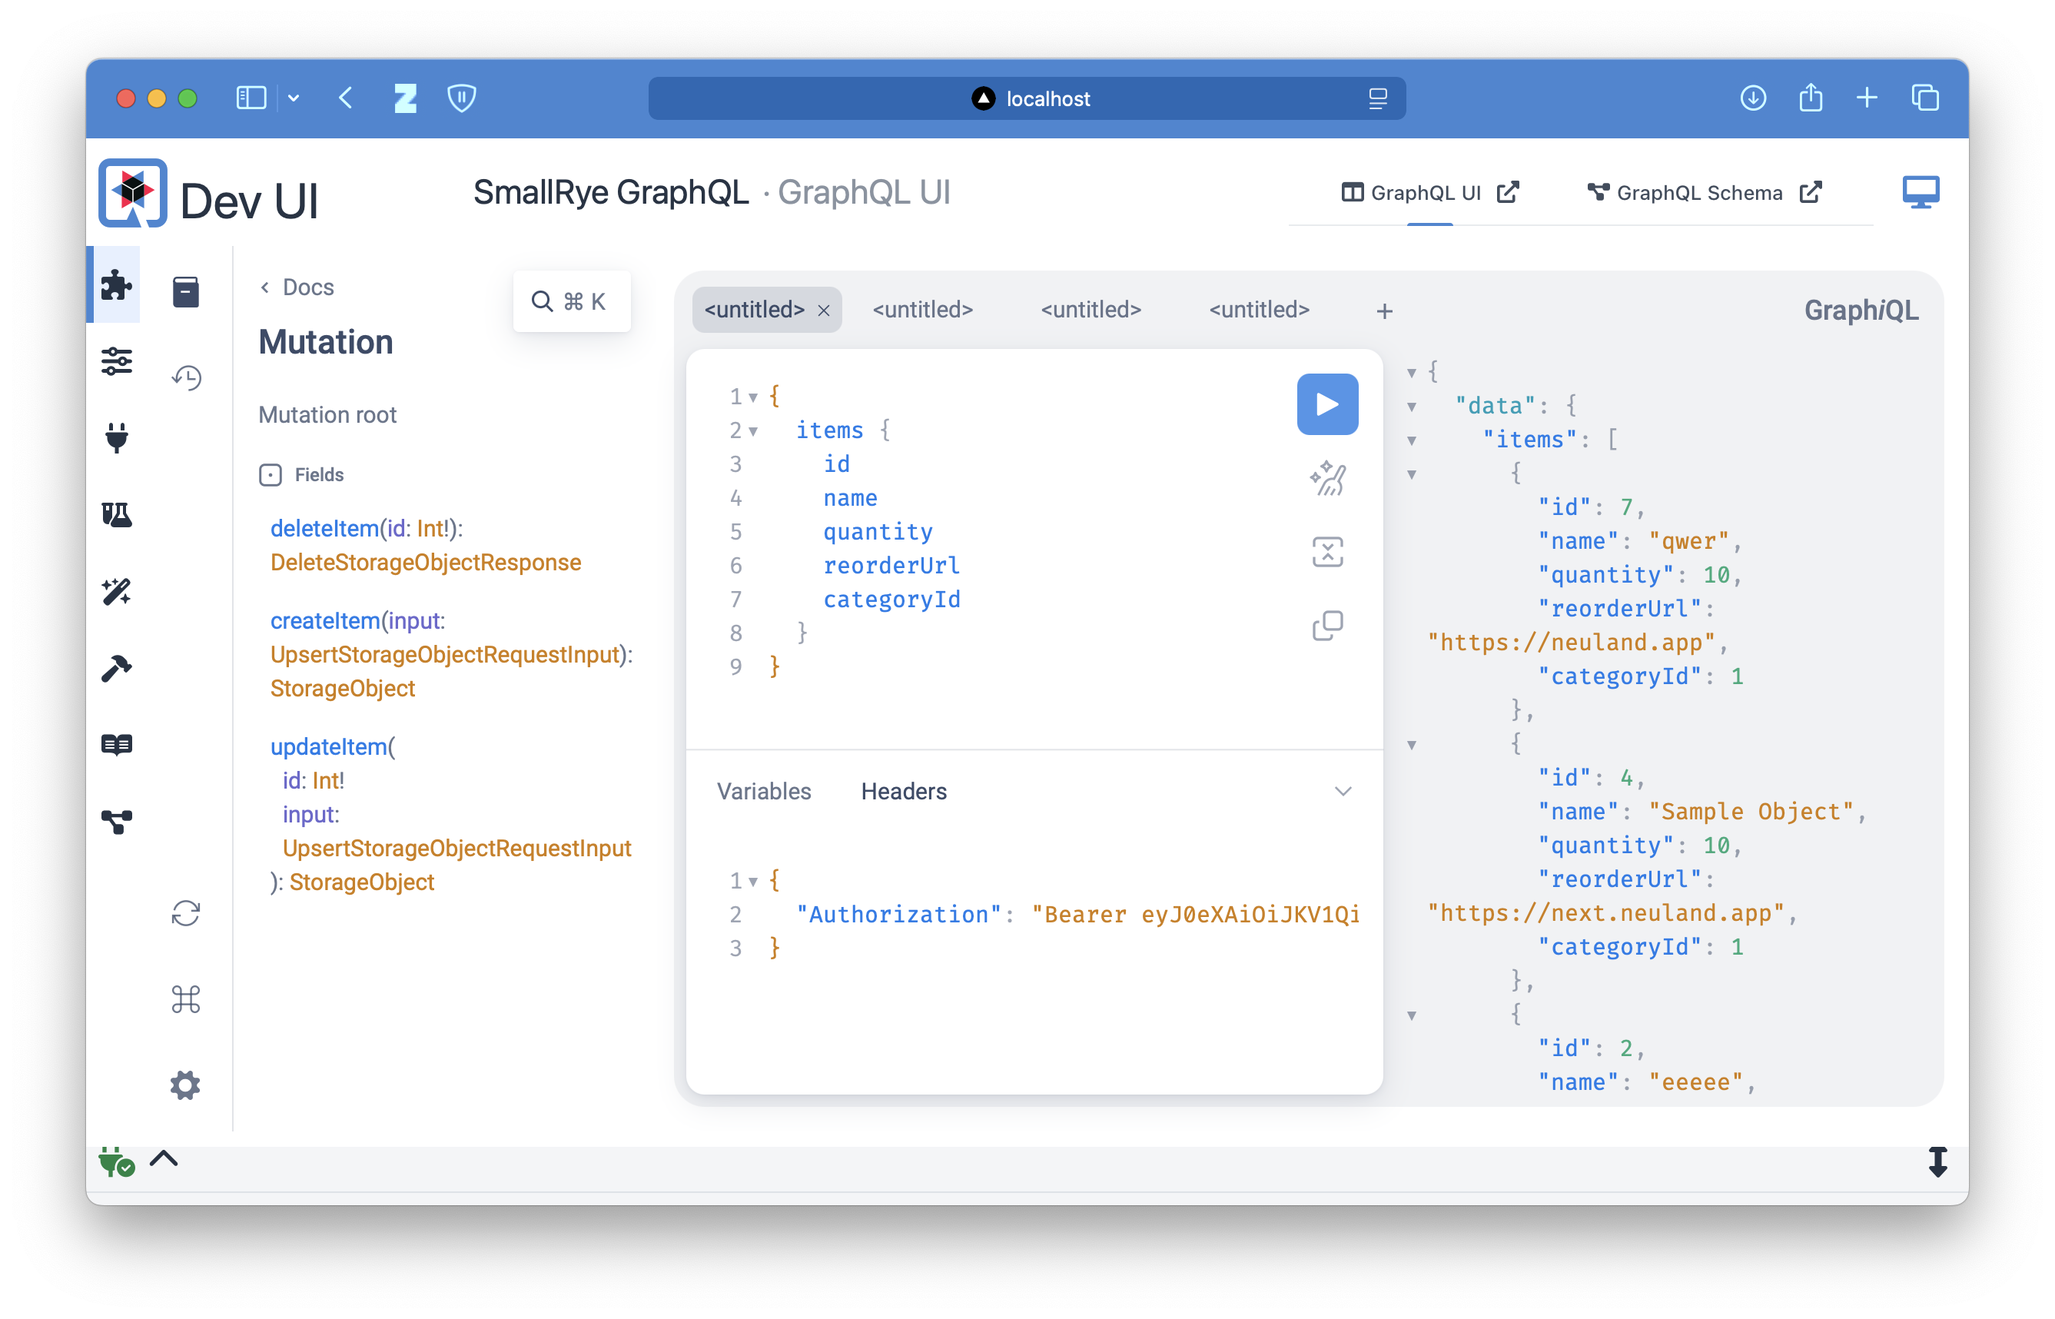
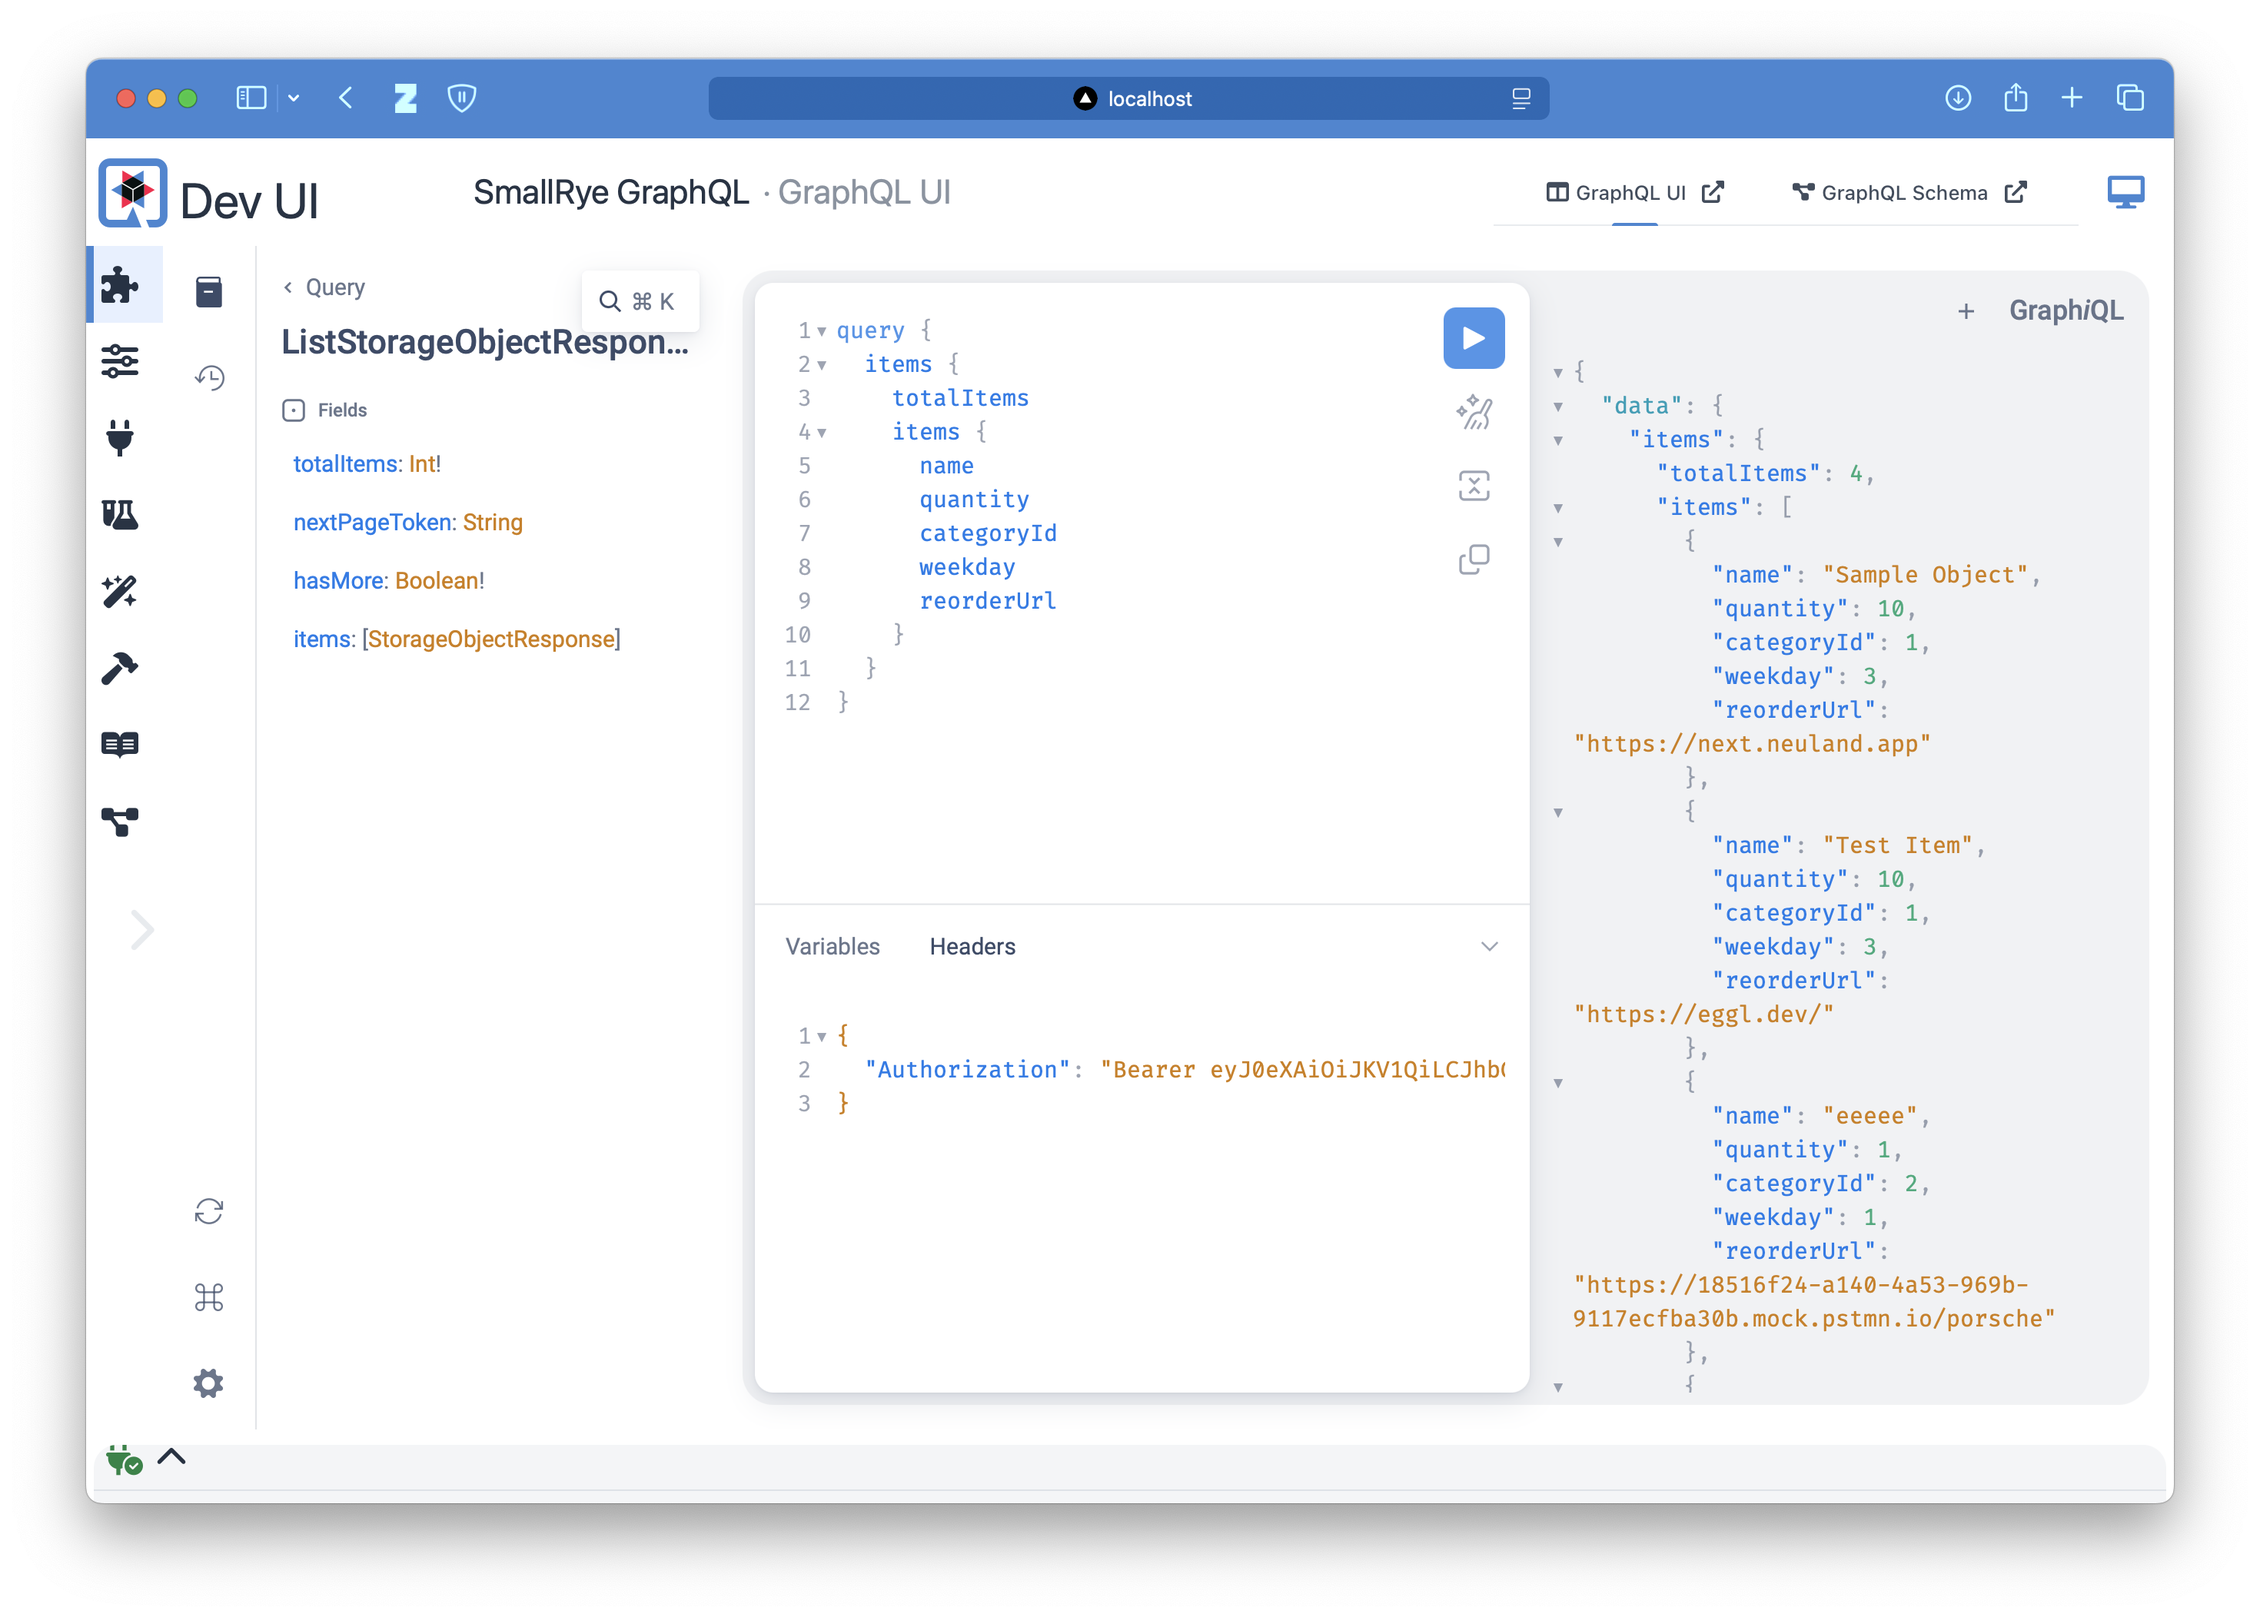
Remove EXPOSE 8080 from Dockerfiles for interval-monitor and object-management services

diff --git a/docs/services/object-management.md b/docs/services/object-management.md
@@ -6,22 +6,32 @@ Der Objekt Management Service ist ein Service zur Verwaltung von Objekten.
 - **Architektur**: Hexagonal
 - **Technologie**: Quarkus (Java)
 
+---
+
+**Inhaltsverzeichnis**
+[[toc]]
+
 ## Architektur
 
 ### Beschreibung
 
-Dieser Service stellt einen integralen Bestandteil des Gesamtsystems dar. Er ist für die Verwaltung von Objekten zuständig, die von den Nutzern erstellt werden. Die Objekte sind dabei den Nutzern zugeordnet und können in Kategorien eingeteilt werden. Jedes Objekt ist einem Wochentag zugeordnet und kann eine Nachbestell URL enthalten, welche zuvor mithilfe des URL-Validierungsdienstes validiert wurde.
+- Dieser Service stellt einen integralen Bestandteil des Gesamtsystems dar. Er ist für die Verwaltung von Objekten zuständig, die von den Nutzern erstellt werden.
+- Die Objekte mit gewünschter Anzahl sind dabei den Nutzern zugeordnet und können in Kategorien eingeteilt werden.
+- Jedes Objekt ist einem Wochentag zugeordnet und kann eine Nachbestell URL enthalten, welche zuvor mithilfe des URL-Validierungsdienstes validiert wurde.
 
----
+#### Inbound Schnittstellen
 
 Es wird für demonstrierende Zwecke sowohl eine **REST API** als auch eine **GraphQL API angeboten**. Beide Adapter implementieren dabei die gleiche Logik und greifen auf die gleichen Services zu. Die GraphQL API ist dabei als Erweiterung der REST API zu sehen und wird nicht im Frontend verwendet.
 
-Über diese APIs können die Objekte erstellt, bearbeitet und gelöscht werden. Die API ist durch die JWT Authentifizierung im Message Header geschützt.
-Über einen weiteren Kategorie Endpunkt können alle verfügbaren Kategorien abgerufen werden. Aufgrund des Modularitätsprinzips ist diese Abfrage unabhänging und nicht in der Objektliste enthalten. Dies könnte in einer späteren Version implementiert werden.
+- Ein Category Port wird angeboten, um die verfügbaren Kategorien abzurufen. Er wird mit beiden Adaptern realisiert und ist nicht durch die Authentifizierung geschützt.
+- Der StorageObject Port dient den CRUD Operationen für die Objekte. Er ist durch die Authentifizierung geschützt und ebenso in beiden Adaptern implementiert.
+- Der Internal StorageObject Port wird für die Kommunikation zwischen den Services verwendet und ist nicht durch die Authentifizierung geschützt. Er wird mittels gRPC realisiert und dient dem [Interval Service](/services/interval-monitor) und dem [Besteck Service](/services/order-management), um effizient Objekte abzurufen.
 
----
+#### Outbound Schnittstellen
 
-Des Weiteren wird ein interner gRPC Service angeboten, der die Kommunikation zwischen den Services ermöglicht. Der Objekt Management Service bietet so für den Intervall- und Besteck-Service die Möglichkeit, Objekte abzurufen. Dabei entfällt der Bedarf einer Authentifizierung, da die Kommunikation intern erfolgt.
+- Es besteht eine Datenbankanbindung, um die Entitäten zu speichern und abzurufen.
+- Daneben wird der URL Validierungsdienst via gRPC angesprochen, um die Nachbestell URL zu validieren. Dies geschieht bei der Erstellung und Bearbeitung der gespeicherten URL.
+- Zudem wird für die maximale Modularität auch die JWT Authentifizierung über einen eigenen Port gehandhabt, anstatt die Authentifizierung redundant im REST und GraphQL Adapter zu implementieren.
 
 ### Architketur Skizze
 
@@ -29,7 +39,7 @@ Des Weiteren wird ein interner gRPC Service angeboten, der die Kommunikation zwi
 
 ### Sequenzdiagramm
 
-Das folgende Sequenzdiagramm zeigt den vereinfachten Ablauf der Objektverwaltung ohne die Berücksichtigung der hexagonalen Architektur.
+Das folgende Sequenzdiagramm zeigt den vereinfachten Ablauf der Objektverwaltung ohne die Berücksichtigung der hexagonalen Architektur. Auch die GraphQL API wird hier nicht berücksichtigt.
 ::: details Sequenzdiagramm anzeigen
 ![Objekt Management Sequenzdiagramm](../assets/object-sequence.svg)
 :::
@@ -132,7 +142,7 @@ mutation {
 
 ### gRPC
 
-gRPC dient zur Kommunikation zwischen den Services und ist daher nicht von außen erreichbar.
+gRPC dient zur Kommunikation zwischen den Services und ist daher nicht von außen erreichbar, weshalb die Notwendigkeit einer Authentifizierung entfällt.
 
 ::: details gRPC Service anzeigen
 
@@ -141,6 +151,63 @@ gRPC dient zur Kommunikation zwischen den Services und ist daher nicht von auße
 | GetStorageObjectsByIds | StorageObjectIdsRequest | StorageObjectsReply | Abrufen von Speicherobjekten anhand ihrer IDs |
 | FindAllDayUsers        | DayUsersRequest         | DayUsersReply       | Finden aller Nutzer-Objekte eines Tages       |
 
+:::
+
+## Dockerfile
+
+Das Dockerfile für den Objekt Management Service ist in `src/main/docker/Dockerfile.jvm` zu finden.
+
+Es verwendet Multi-Stage Builds, um das JAR-File zu erstellen und anschließend in einem schlanken Image zu verpacken.
+
+::: code-group
+
+```dockerfile [Build-Stage]
+FROM maven:3.9.9-eclipse-temurin-21 AS builder
+
+WORKDIR /app
+COPY pom.xml ./
+COPY src ./src
+
+RUN mvn package -batch-mode
+```
+
+```dockerfile [Run-Stage]
+FROM registry.access.redhat.com/ubi8/openjdk-21:1.20
+
+ENV LANGUAGE='en_US:en'
+
+COPY --from=builder /app/target/quarkus-app/lib/ /deployments/lib/
+COPY --from=builder /app/target/quarkus-app/*.jar /deployments/
+COPY --from=builder /app/target/quarkus-app/app/ /deployments/app/
+COPY --from=builder /app/target/quarkus-app/quarkus/ /deployments/quarkus/
+
+USER 185
+ENV JAVA_OPTS_APPEND="-Dquarkus.http.host=0.0.0.0 -Djava.util.logging.manager=org.jboss.logmanager.LogManager"
+ENV JAVA_APP_JAR="/deployments/quarkus-run.jar"
+
+ENTRYPOINT [ "/opt/jboss/container/java/run/run-java.sh" ]
+```
+
+:::
+
+1. Build-Stage: Erstellt das JAR-File mit Maven
+
+- Verwendet das Template `maven:3.9.9-eclipse-temurin-21` als Basisimage
+- Kopiert die `pom.xml` und den `src` Ordner in das Image.
+- Führt den Maven Build aus, um das JAR-File zu erstellen.
+  - Dieser Schritt installiert, testet und baut das Projekt.
+  - `-batch-mode` wird verwendet, um den interaktiven Modus zu deaktivieren.
+
+2. Run-Stage: Verpackt das JAR-File in einem schlanken Image
+
+- Verwendet das Template `registry.access.redhat.com/ubi8/openjdk-21:1.20` als Basisimage
+- Kopiert nur das gebaute JAR-File und die benötigten Dateien in das Image.
+- Setzt die von Quarkus benötigten Umgebungsvariablen. Nähere Infos lassen scih der Quarkus Dokumentation entnehmen.
+- Setzt den User auf `185`, um den Container nicht als Root zu starten.
+- Legt den Entrypoint fest, um die Anwendung zu starten.
+
+::: info Wofür ist das andere Dockerfile?
+Das `Dockerfile.gh` dient dazu, das Multi-Arch Image effizienter mit GitHub Action zu bauen. Nähere Infos lassen sich [hier](/usage/ci) entnehmen.
 :::
 
 ## Start ohne Docker

diff --git a/docs/services/interval-monitor.md b/docs/services/interval-monitor.md
@@ -6,6 +6,12 @@ Der Service wird in einem festen Intervall ausgeführt und prüft, ob eine Beste
 - **Autor**: Robert Eggl
 - **Technologie**: Quarkus (Java)
 
+---
+
+**Inhaltsverzeichnis**
+
+[[toc]]
+
 ## Architekturbeschreibung
 
 Der **Intervall-Monitoring-Service** ist ein Dienst zur Überwachung des Bestellzyklus. Er wird regulär alle 4 Studen ausgeführt, im Mock-Modus alle 15 Sekunden.
@@ -61,6 +67,63 @@ Daneben wird von Quarkus automatisch ein Health-Check unter `/q/health` bereitge
 
 ::: warning Hinweis
 Der Mock-Modus ist nur für Entwicklungs- und Testzwecke gedacht und sollte in Produktivumgebungen deaktiviert sein. Es findet keine Überprüfung der Authentifizierung statt.
+:::
+
+## Dockerfile
+
+Das Dockerfile für den Objekt Management Service ist in `src/main/docker/Dockerfile.jvm` zu finden.
+
+Es verwendet Multi-Stage Builds, um das JAR-File zu erstellen und anschließend in einem schlanken Image zu verpacken.
+
+::: code-group
+
+```dockerfile [Build-Stage]
+FROM maven:3.9.9-eclipse-temurin-21 AS builder
+
+WORKDIR /app
+COPY pom.xml ./
+COPY src ./src
+
+RUN mvn package -batch-mode
+```
+
+```dockerfile [Run-Stage]
+FROM registry.access.redhat.com/ubi8/openjdk-21:1.20
+
+ENV LANGUAGE='en_US:en'
+
+COPY --from=builder /app/target/quarkus-app/lib/ /deployments/lib/
+COPY --from=builder /app/target/quarkus-app/*.jar /deployments/
+COPY --from=builder /app/target/quarkus-app/app/ /deployments/app/
+COPY --from=builder /app/target/quarkus-app/quarkus/ /deployments/quarkus/
+
+USER 185
+ENV JAVA_OPTS_APPEND="-Dquarkus.http.host=0.0.0.0 -Djava.util.logging.manager=org.jboss.logmanager.LogManager"
+ENV JAVA_APP_JAR="/deployments/quarkus-run.jar"
+
+ENTRYPOINT [ "/opt/jboss/container/java/run/run-java.sh" ]
+```
+
+:::
+
+1. Build-Stage: Erstellt das JAR-File mit Maven
+
+- Verwendet das Template `maven:3.9.9-eclipse-temurin-21` als Basisimage
+- Kopiert die `pom.xml` und den `src` Ordner in das Image.
+- Führt den Maven Build aus, um das JAR-File zu erstellen.
+  - Dieser Schritt installiert, testet und baut das Projekt.
+  - `-batch-mode` wird verwendet, um den interaktiven Modus zu deaktivieren.
+
+2. Run-Stage: Verpackt das JAR-File in einem schlanken Image
+
+- Verwendet das Template `registry.access.redhat.com/ubi8/openjdk-21:1.20` als Basisimage
+- Kopiert nur das gebaute JAR-File und die benötigten Dateien in das Image.
+- Setzt die von Quarkus benötigten Umgebungsvariablen. Nähere Infos lassen scih der Quarkus Dokumentation entnehmen.
+- Setzt den User auf `185`, um den Container nicht als Root zu starten.
+- Legt den Entrypoint fest, um die Anwendung zu starten.
+
+::: info Wofür ist das andere Dockerfile?
+Das `Dockerfile.gh` dient dazu, das Multi-Arch Image effizienter mit GitHub Action zu bauen. Nähere Infos lassen sich [hier](/usage/ci) entnehmen.
 :::
 
 ## Start ohne Docker
